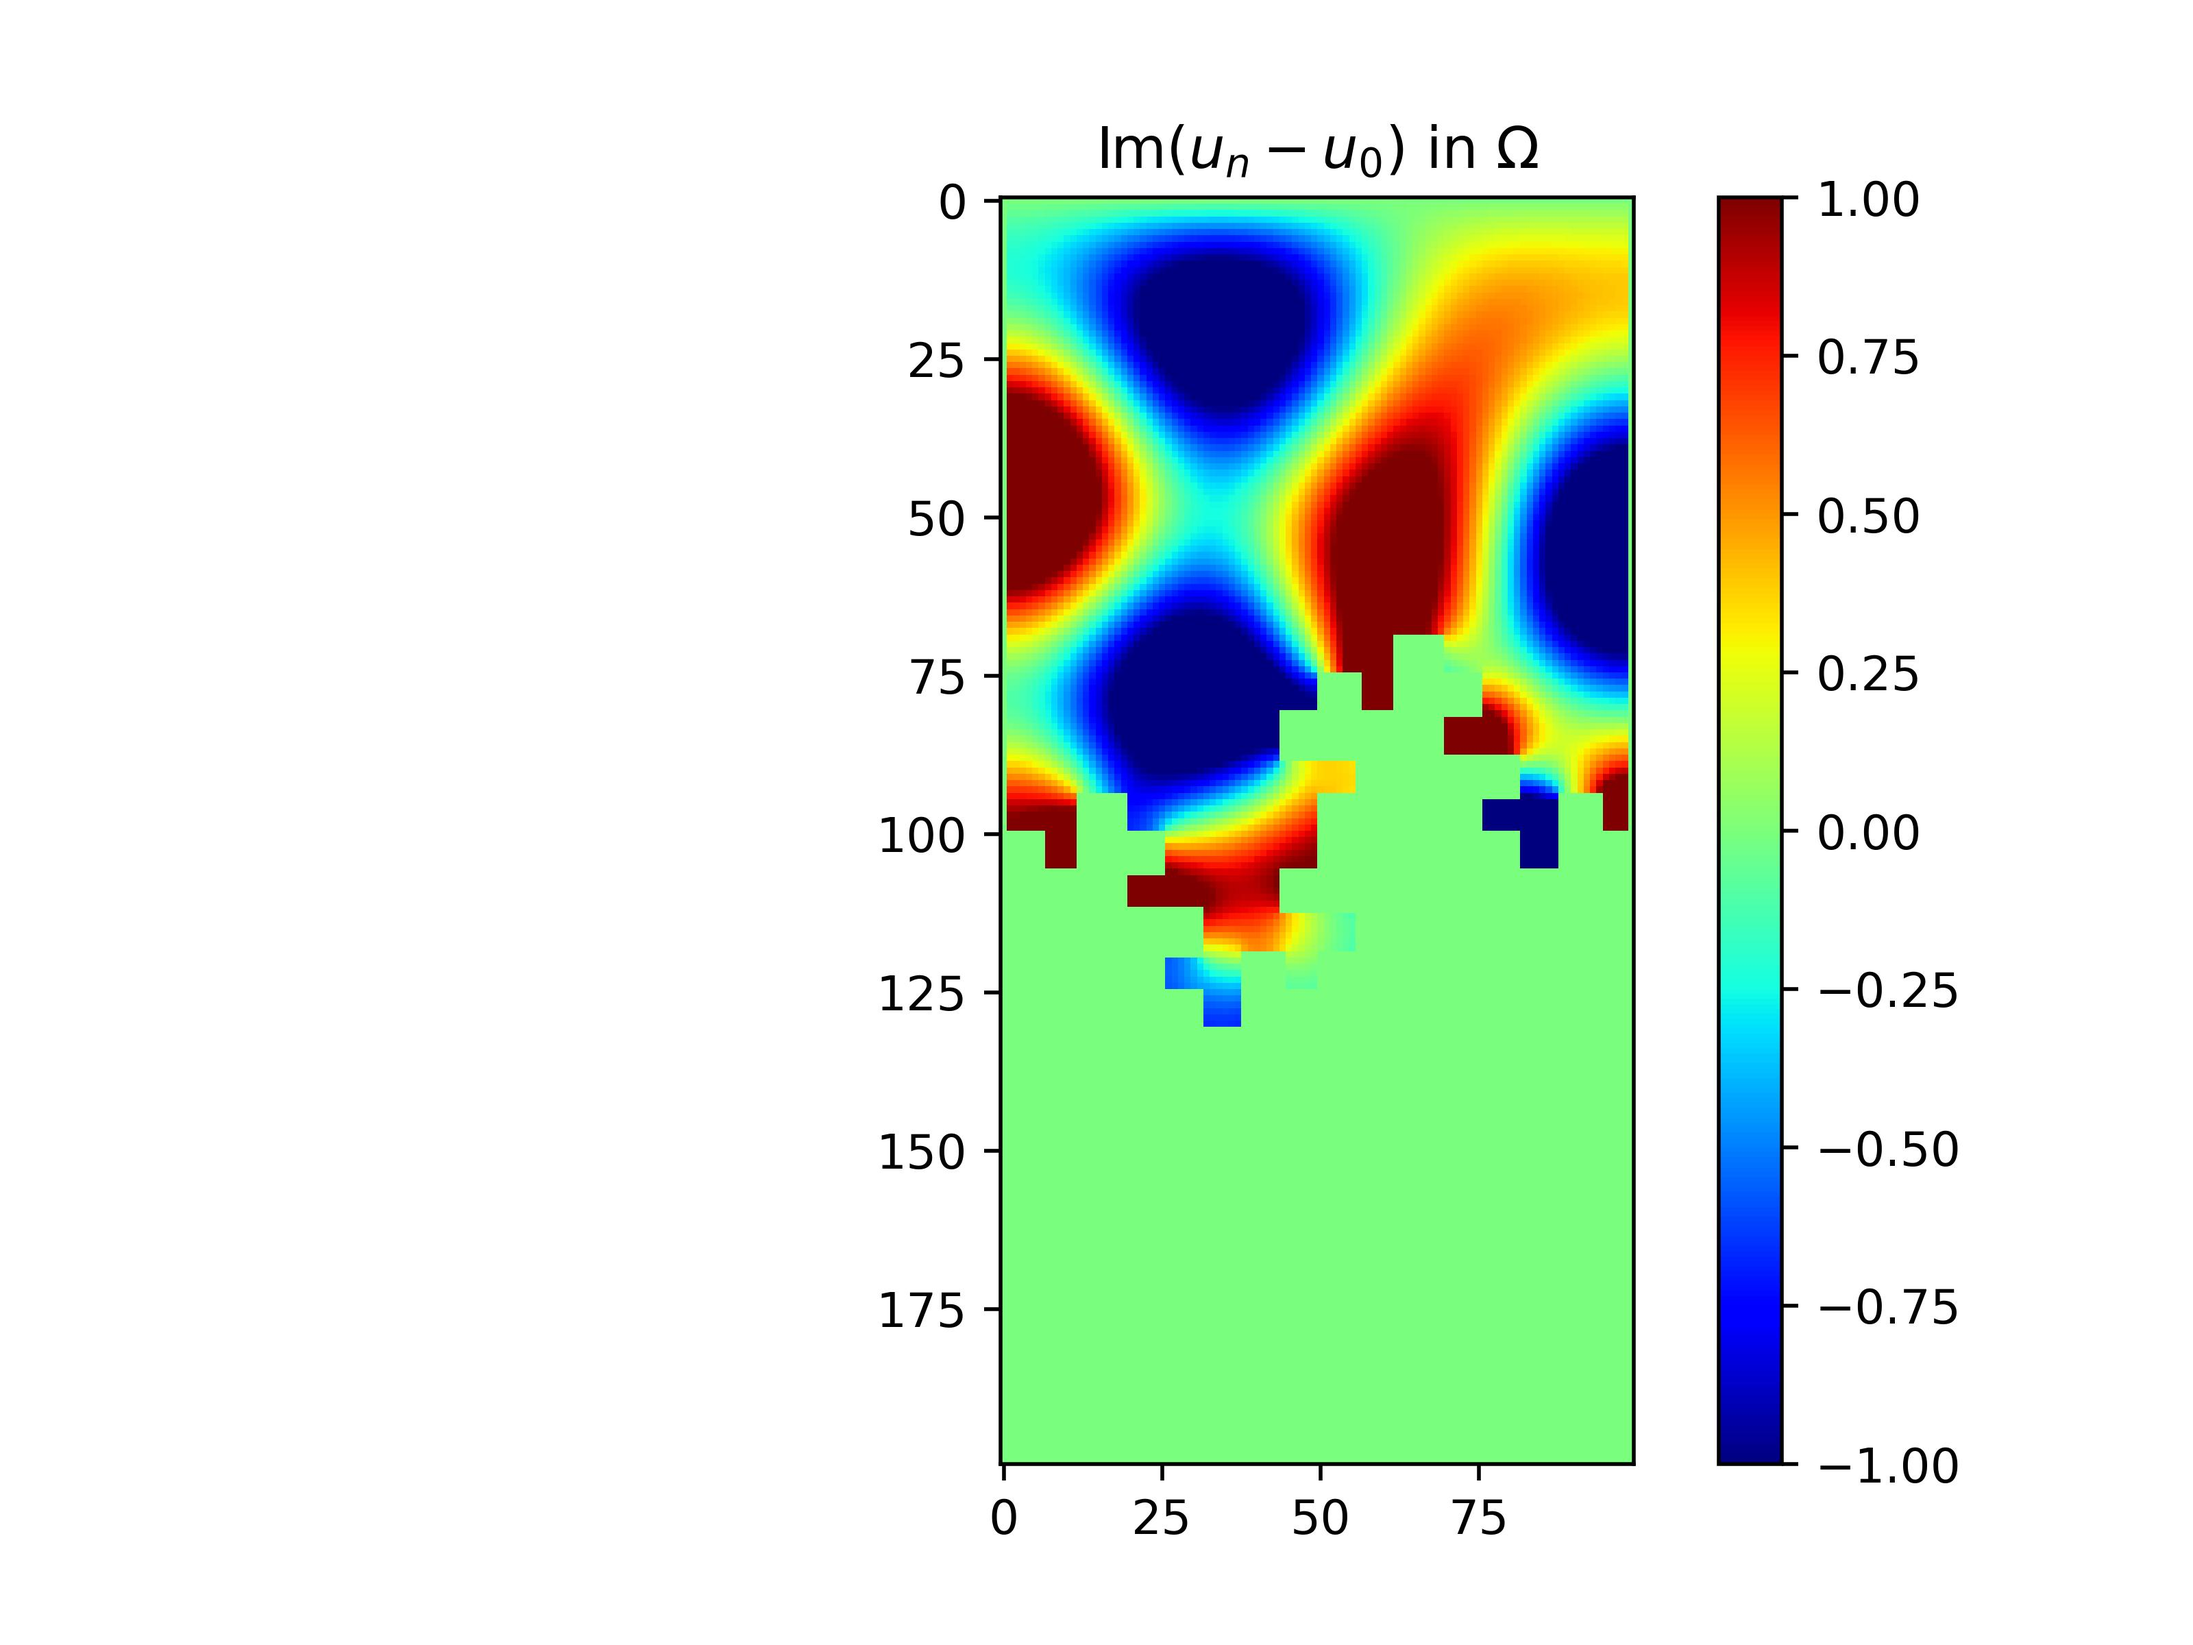
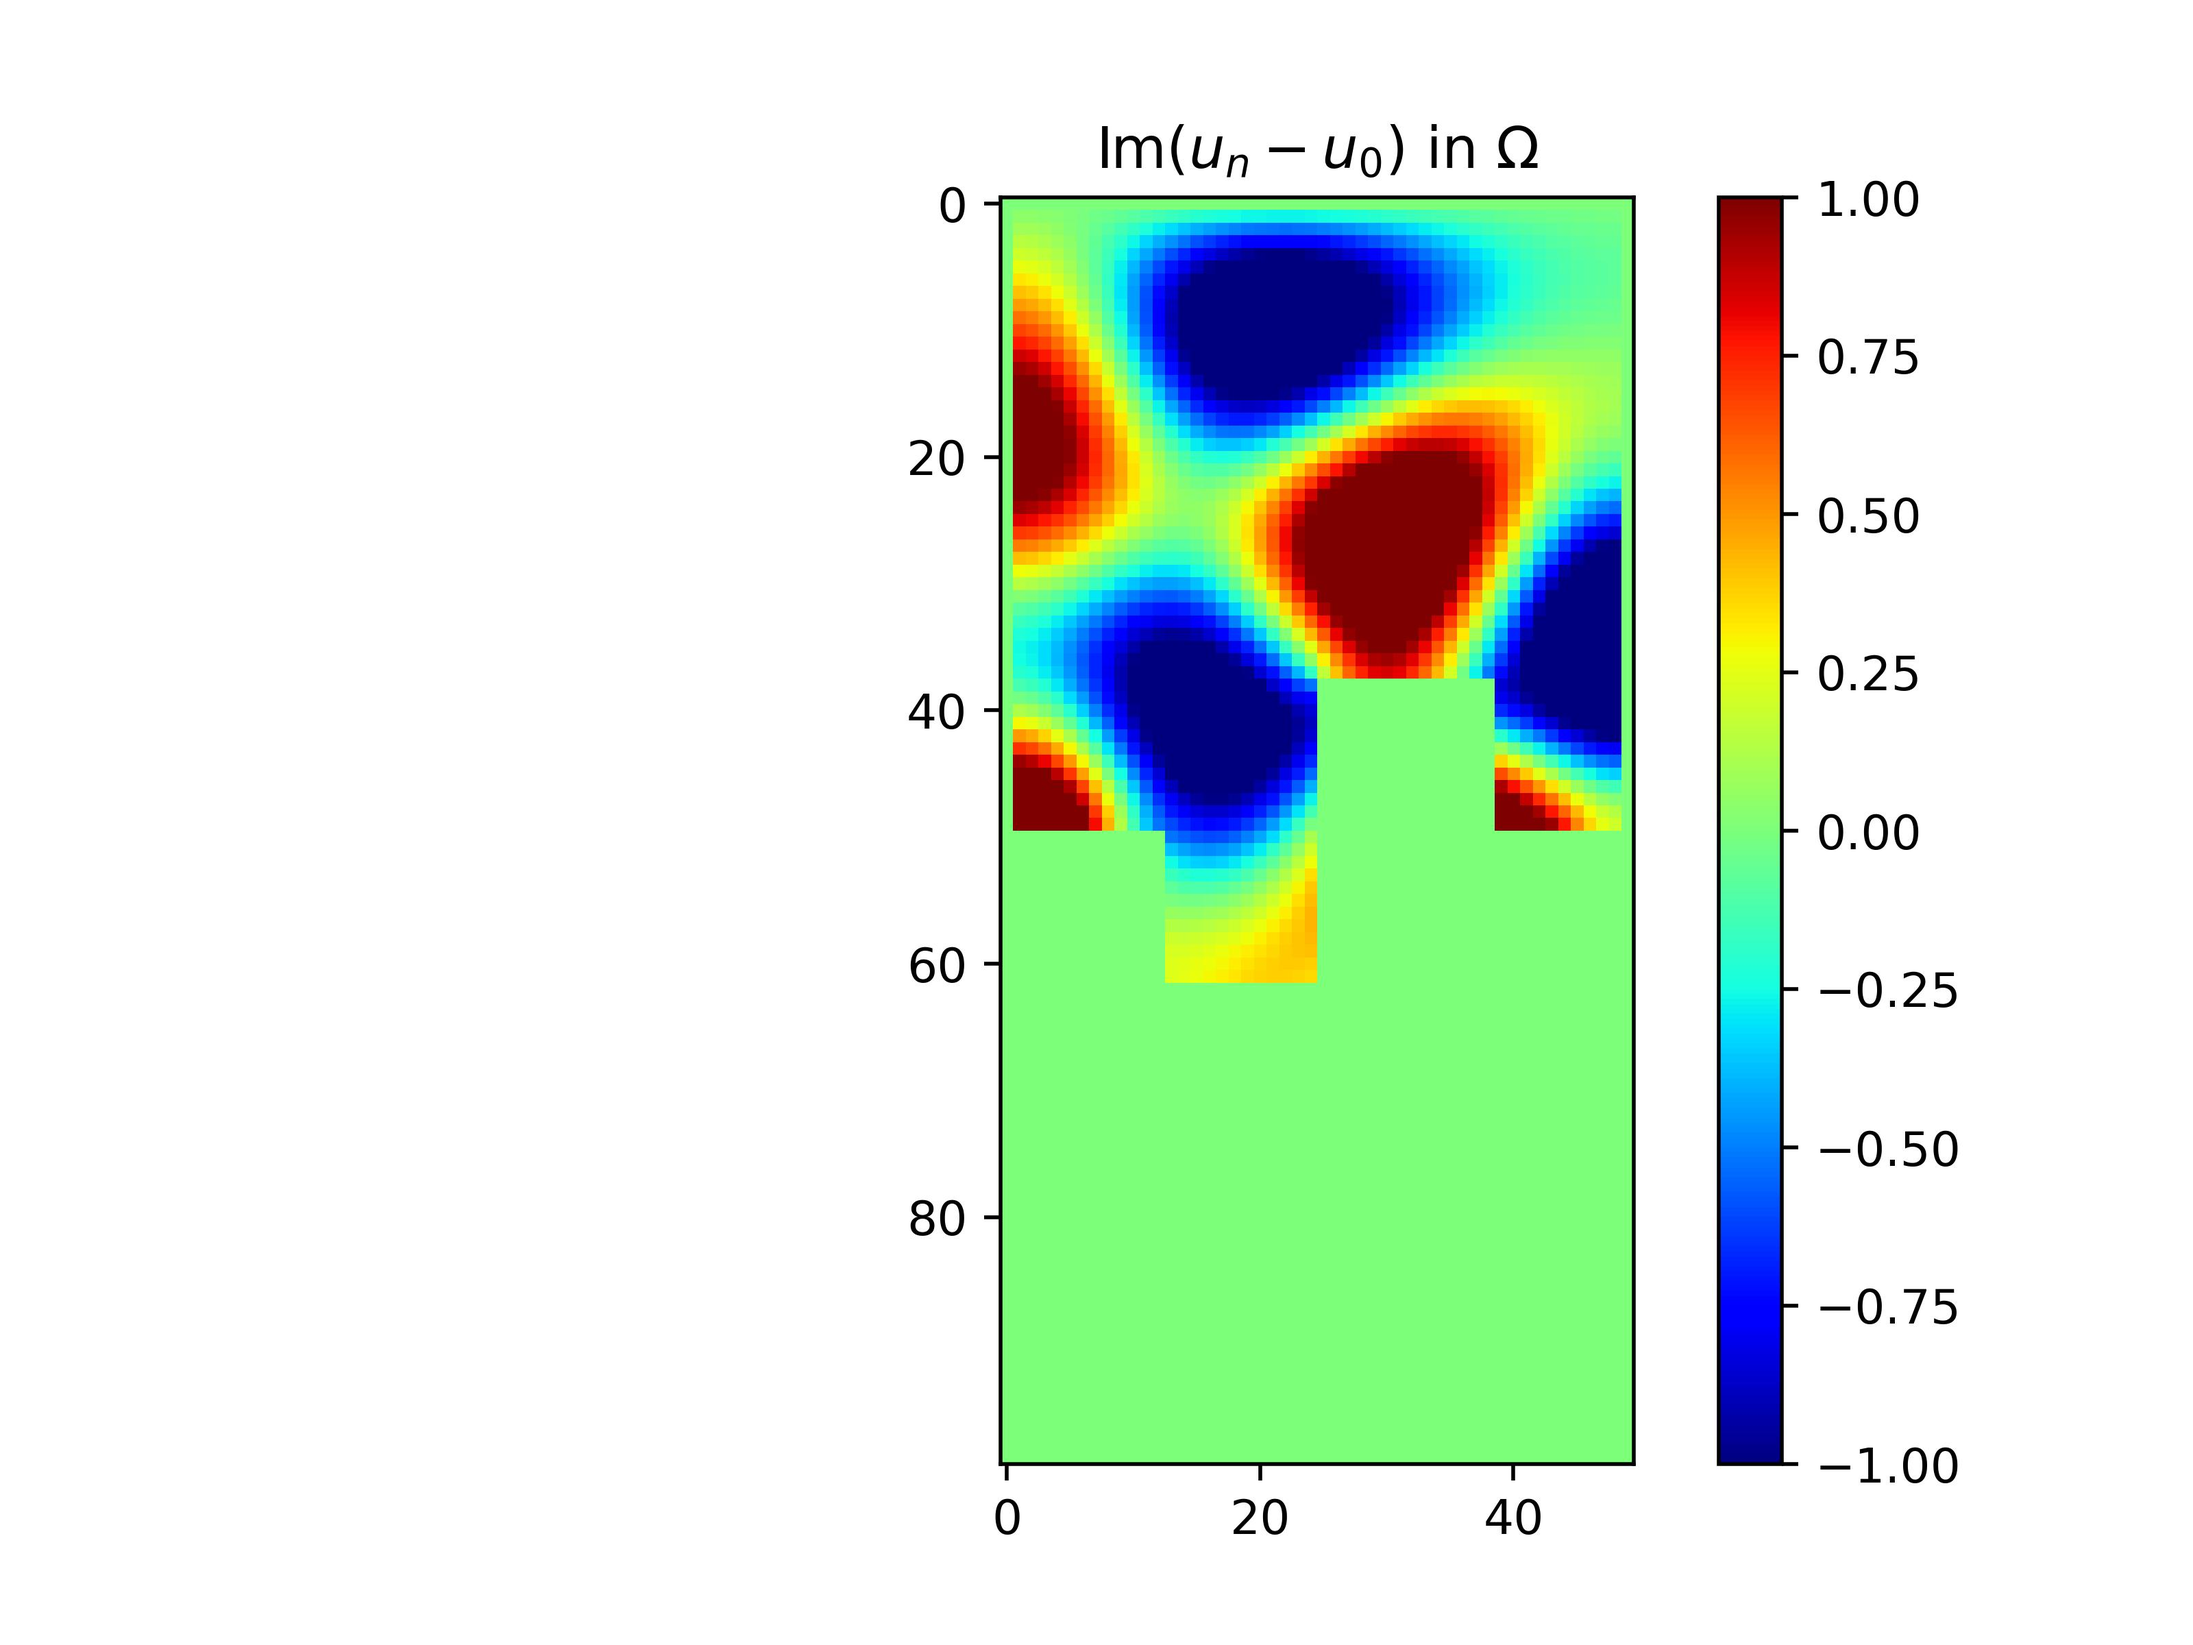
simulations

diff --git a/src/main.py b/src/main.py
@@ -5,6 +5,8 @@
 import matplotlib.pyplot
 import numpy
 import os
+import random
+
 
 
 # MRG packages
@@ -28,6 +30,17 @@ def computeSurface(domain_omega):
 def computeVolume(chi, S):
     return numpy.sum(chi)/S
 
+def initialize_random_chi(M, N, x, y, V_obj):
+    chi = numpy.zeros((M, N), dtype=numpy.float64)
+    val = 1.0
+    random_list = random.sample(range(1, 2*N), int(N*V_obj))
+    for k in random_list:
+        chi[int(y[k]), int(x[k])] = val
+    return chi
+
+
+
+
 def launch_simulation(N: int, level: int, spacestep: float, wavenumber: float, Alpha: complex, V_obj: float, mu: float):        # penser à ajouter un moyen de faire un initial chi différent
     """
     Lance la simulation et renvoie les plots interessants
@@ -47,6 +60,7 @@ def launch_simulation(N: int, level: int, spacestep: float, wavenumber: float, A
     #####
     S = computeSurface(domain_omega)
     
+    # initial_chi = initialize_random_chi(M, N, x, y, V_obj)
     initial_chi = preprocessing._set_chi(M, N, x, y)
     preprocessing.set2zero(initial_chi, domain_omega)
 
@@ -83,6 +97,7 @@ def launch_simulation(N: int, level: int, spacestep: float, wavenumber: float, A
     postprocessing._plot_energy_history(energy)
 
     print('End.')
+    return energy
 
 
 
@@ -90,22 +105,54 @@ def launch_simulation(N: int, level: int, spacestep: float, wavenumber: float, A
 
 if __name__ == '__main__':
     # -- set parameters of the geometry
-    N = 100  # number of point2 along x-axis
+    N = 50  # number of point2 along x-axis
     M = 2 * N  # number of points along y-axis
-    level = 2 # level of the fractal
+    level = 1 # level of the fractal
     spacestep = 1.0 / N  # mesh size
 
     # -- set parameters of the partial differential equation
     wavenumber = 10.0                        # fréquence f = 200 environ donc w = 2*pi*f = 1200 et k = w/c avec c = 340m/s
 
-    V_obj = 0.5
+    # V_obj = 0.9
     mu = 5
     Alpha = 2.0 - 8.0 * 1j
     # Alpha = computeAlpha(...)
 
-    # initial_chi = preprocessing._set_chi(M, N, x, y)
+    # launch_simulation(N, level, spacestep, wavenumber, Alpha, V_obj, mu)    
 
-    launch_simulation(N, level, spacestep, wavenumber, Alpha, V_obj, mu)    
+
+    """
+
+    Permet de tracer l'énergie APRES optimisation en fonction de la densité de matériau. 
+
+    V_obj_list = [0.05*i for i in range(1,19)]
+    liste_des_energies = [launch_simulation(N,level,spacestep,wavenumber,Alpha,V_obj, mu)[-1] for V_obj in V_obj_list]
+
+
+    matplotlib.pyplot.figure(figsize=(8, 5))
+    matplotlib.pyplot.plot(V_obj_list[:len(liste_des_energies)], liste_des_energies, marker='o', color='b', linestyle='-', linewidth=2, markersize=6)
+
+    matplotlib.pyplot.xlabel("Densité de matériau (entre 0 et 1)", fontsize=12)
+    matplotlib.pyplot.ylabel("Énergie", fontsize=12)
+    matplotlib.pyplot.title("Évolution de l'énergie en fonction de la densité de matériau", fontsize=14)
+
+    matplotlib.pyplot.grid(True, linestyle='--', alpha=0.7)
+    matplotlib.pyplot.xlim(0, 1)
+
+    # Afficher le graphique
+    matplotlib.pyplot.savefig("energie_selon_densité", dpi = 500)
+
+    """
+
+
+    """
+
+
+
+    
+    """
+
+
 
 
 

diff --git a/testing_HelmolzSolver.py b/testing_HelmolzSolver.py
@@ -269,9 +269,9 @@ if __name__ == '__main__':
     # -- Fell free to modify the function call in this cell.
     # ----------------------------------------------------------------------
     # -- set parameters of the geometry
-    N = 50  # number of point2 along x-axis
+    N = 200  # number of point2 along x-axis
     M = 2 * N  # number of points along y-axis
-    level = 2 # level of the fractal
+    level = 4 # level of the fractal
     spacestep = 1.0 / N  # mesh size
 
     # -- set parameters of the partial differential equation
@@ -312,7 +312,7 @@ if __name__ == '__main__':
     chi = preprocessing.set2zero(chi, domain_omega)
     
     # -- define absorbing material
-    Alpha = 10.0 - 10.0 * 1j
+    Alpha = 2.0 - 8.0 * 1j
 
     # -- this is the function you have written during your project
     #import compute_alpha

diff --git a/src/compute_alpha.py b/src/compute_alpha.py
@@ -217,7 +217,7 @@ def compute_alpha(omega, material_properties):
                 tol=1e-4,
             ).x
         )
-        print(temp, "------", "je suis temp")
+        # print(temp, "------", "je suis temp")
         return temp
 
     @Memoize
